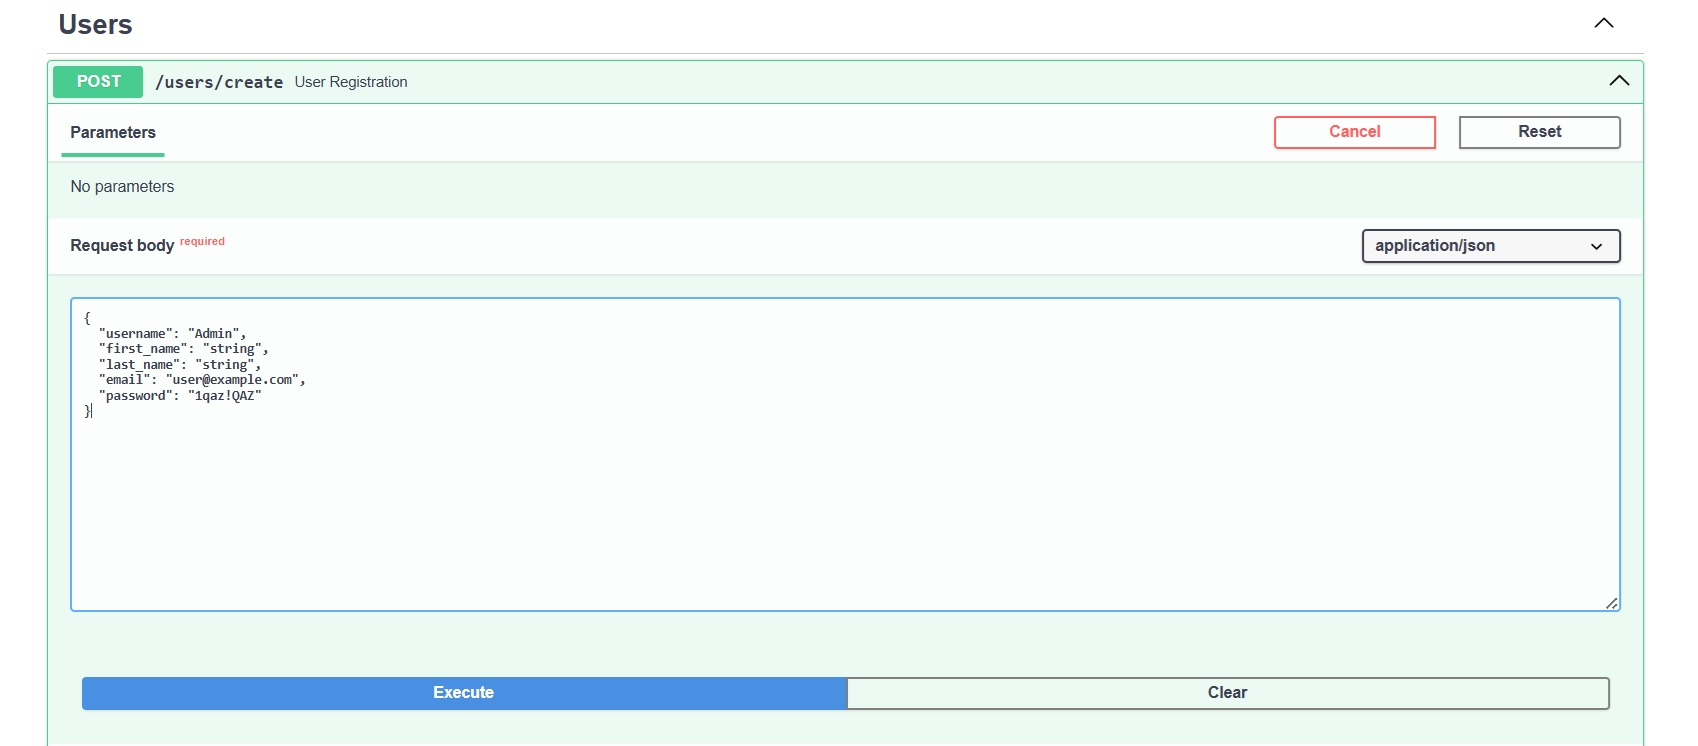
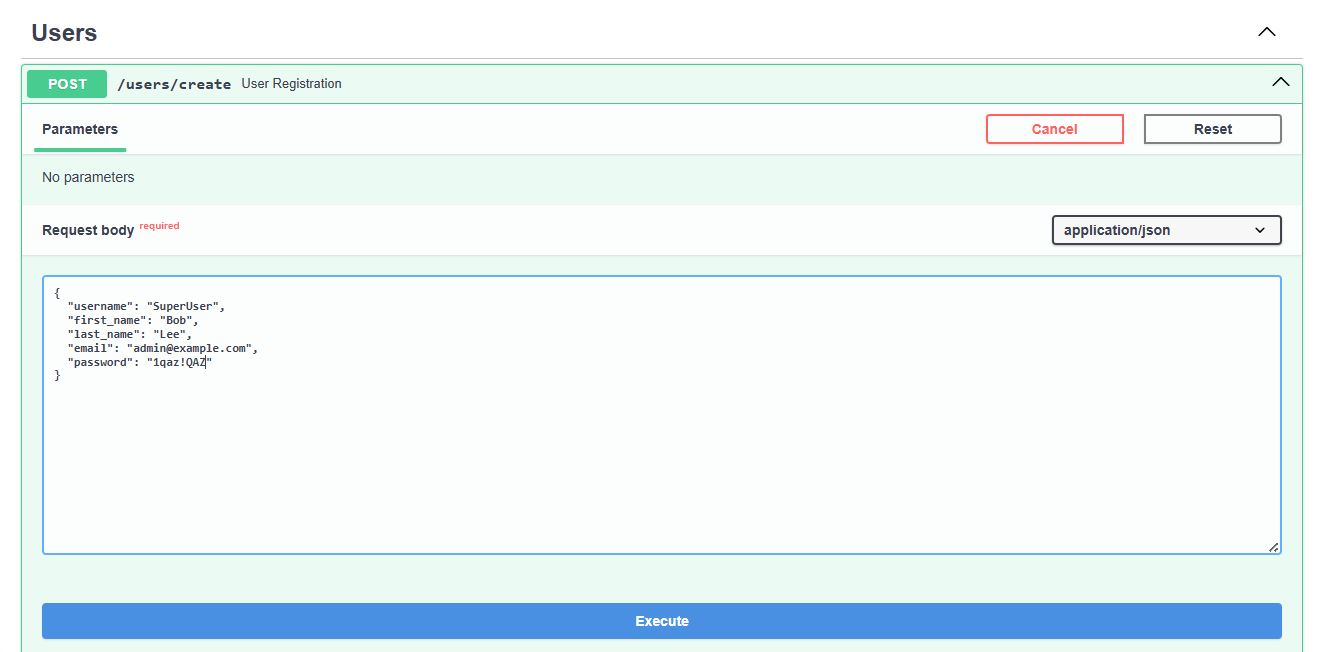
edit README.md

Changed region(s): [[0.0, 0.0, 0.9954, 1.0]]

diff --git a/src/main.py b/src/main.py
@@ -26,7 +26,7 @@ add_pagination(app)
 
 @app.get("/", response_class=HTMLResponse)
 def index(response: Response):
-    return HTMLResponse("Library Management")
+    return HTMLResponse("<h2> Library Management </h2>")
 
 
 if __name__ == "__main__":

diff --git a/README.md b/README.md
@@ -1,87 +1,99 @@
-# Интернет-магазин
-### Реализация бэкенд сервиса интернет-магазина 
+# API для Управления Библиотекой
+### Реализация бэкенд сервиса для управление библиотекой 
 
-В этом проекте реализован Web API с использованием Django REST framework (в качестве базы данных используется PostgreSQL).
+Используемые технологии:
+- Фреймворк: FastAPI
+- База данных: PostgreSQL
+- ORM: SQLAlchemy
+- Аутентификация: JWT
+- Управление миграциями: Alembic
+- Тестирование: Pytest
+- Web-сервер: Nginx
+
+Реализованный функционал:
+- авторизация и аутентификация пользователей
+- управление книгами
+- управление авторами
+- управление читателями
+- поиск, выдача и возврат книг
+
+## Правила использования
+
+Пользователи разделяются  на: администраторов и читатель.
+
+Администратор может управлять всеми ресурсами. 
+Читатель может изменять свои данные, искать книги по автору или названию, а также получать и возвращать книги.
 
 ## Запуск проекта
 
 Для развертывания проекта используется `Docker Compose`.
 
-Перед запуском проекта необходимо подготовить env-файл (env файл хранится в репозитории потому, что проект учебный):
-```
-copy .env-prod .env 
-```
+Перед запуском проекта необходимо подготовить env-файл (env файл хранится в репозитории потому, что проект тестовый):
+
 Чтобы запустить проект используем команду:
 ```
 docker compose up -d
 ```
 
-При первом запуске проекта создается база данных (используется скрипт entrypoint.sh). 
+При первом запуске проекта необходимо выполнить миграции базы данных с помощью Alembic 
 
-Для её заполнения данными используем команду `loaddatautf8`:
 ```
-docker compose exec app python manage.py loaddatautf8 fixtures/data.json
+docker compose exec app alembic upgrade head
 ```
 Стартовая страница проекта [http://127.0.0.1:80](http://127.0.0.1:80).
+![Стартовая страница проекта](readme_img/start.jpg)
 
-![Стартовая страница проекта](img_1-1.jpg)
+Страница с интерактивной документацией [http://127.0.0.1:80/docs](http://127.0.0.1:80/docs).
+![страница c документацией проекта](readme_img/start_api.jpg)
 
-Стартовая страница отображает товары по категориям
+Для начала работы необходимо создать администратора ресурса.
+Для этого через запрос /users/create в разделе Users создаем нового пользователя
+![Создание пользователя](readme_img/create_user.jpg)
 
-На вкладке `Sale` размещена информация по имеющимся скидкам на товары
-![Sale](img_sale.jpg)
+ В базе данных (можно подключиться с помощью DBeaver) устанавливаем у данного пользователя атрибут is_superuser в значение True или выполняем команды
 
-Вход в личный кабинет через меню `LOGIN/REGISTER`
+```
+docker compose exec db_lib psql -U postgras -W admin
+UPDATE users SET is_superuser = True WHERE id = 1;
+```
 
-![LOGIN/REGISTER](img_reg.jpg)
+## Тестирование проекта
 
-Здесь же регистрация нового пользователя
+Для тестирования проекта необходимо создать тестовую базу командой
+```
+docker compose -f docker-compose-test.yml up -d
+```
 
-В сервисе зарегистрировано 4 пользователя:
-- суперпользователь admin (password: 01097);
-- Sem, Tom, jhon (password: 1qaz!QAZ)
+Перейти в каталог с тестами
+```
+cd tests
+```
 
-Попасть в свой личный кабинет пользователь может кликнув по своему логину, например `Sem`
+Для тестирования раздела работы с пользователями
+```
+pytest -v test_user.py
+```
 
-![profile](img_prof.jpg)
+Для тестирования раздела работы с авторами
+```
+pytest -v test_author.py
+```
 
-В личном кабинете пользователь может поменять свои данные, аватарку, пароль, а также посмотреть историю своих покупок
-![user_orders](img_orders_history.jpg) 
+Для тестирования раздела работы с жанрами
+```
+pytest -v test_genres.py
+```
 
-Товары на сайте можно сортировать по разным параметрам: цена, наименование, наличие товара в магазине, бесплатная доставка, по тегам, отзывам, рейтингам и новизне
+Для тестирования раздела работы с книгами
+```
+pytest -v test_book.py
+```
 
-![sorted](img_sort-1.jpg)
-
-Карточка товара содержит его название, цену, описание, характеристики и отзывы
-
-![product](img_prod_detail.jpg)
-
-Здесь мы можем добавить товар в корзину, а затем перейти в неё щелкнув по корзине в верхней правой части меню
-
-![basket](img_basket.jpg)
-
-Кнопка `Оформить заказ` запускает процедуру оформления покупки выбранных товаров. В итоге формируется заказ
-
-![order](img_order.jpg)
-
-Для завершения покупки заказ необходимо оплатить
-
-![payment](img_payment.jpg)
-
-После оплаты пользователю направляется электронное письмо с данными заказа (в проекте используется очередь задач Celery и имитация отправки сообщений)
-
-![celery](img_celery.jpg)
-
-Для контроля работы Celery в проекте развернут сервис Flower [http://127.0.0.1:5555](http://127.0.0.1:5555)
-
-Для работы с каталогами товаров используется панель администратора [http://127.0.0.1:80/admin](http://127.0.0.1:80/admin)
-
-![admin](img_adminka.jpg)
-
-
-
-You can send HTTP requests from [http://127.0.0.1:80/api/docs](http://127.0.0.1:80/api/docs).
+Для тестирования раздела работы с выдачей
+```
+pytest -v test_library.py
+```
 
 ## Licence
 
-Author: Author: Stanislav Rubtsov
+Author: Stanislav Rubtsov
